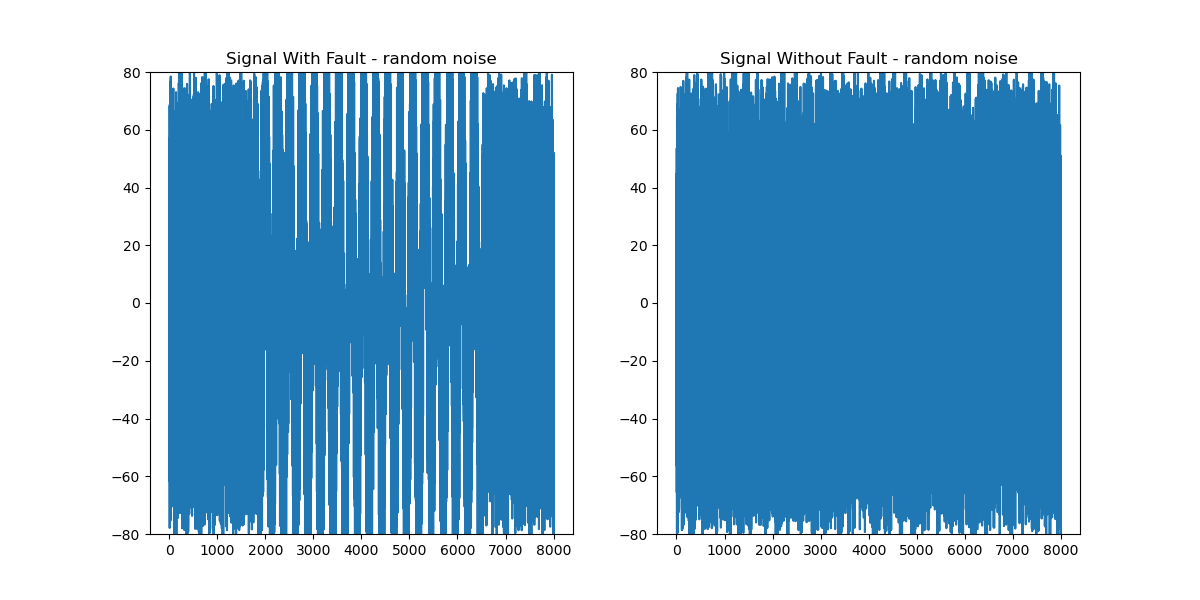
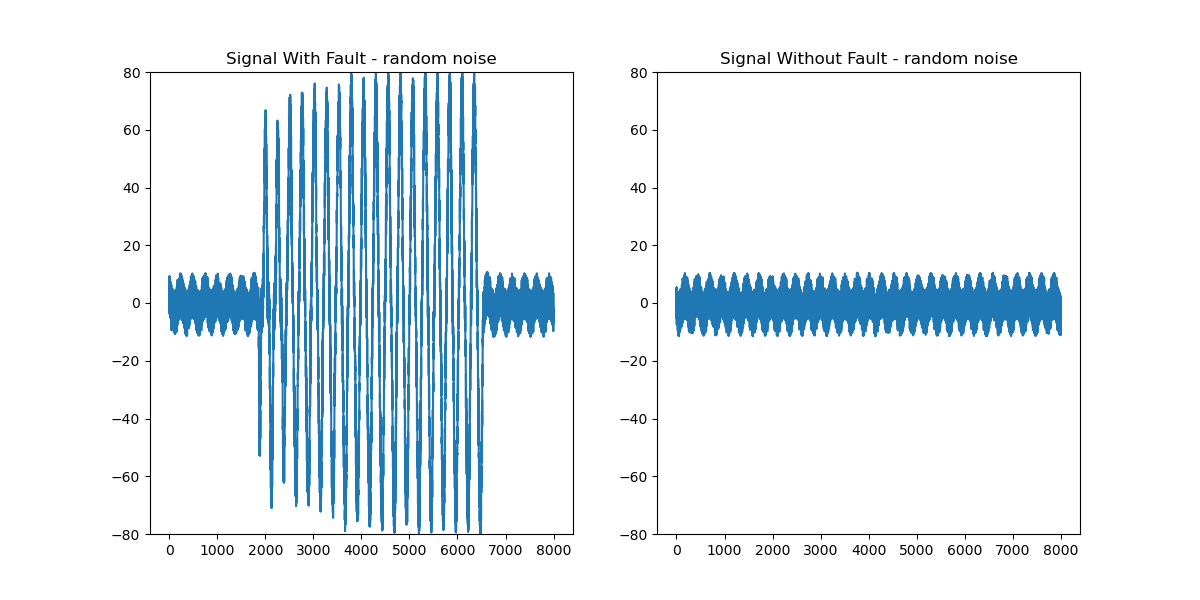
FEAT: random noise at 10%

diff --git a/generate_escalogram.py b/generate_escalogram.py
@@ -84,7 +84,7 @@ def generate_images(sample_fault, sample_control):
 
     # random_noise
     print('random_noise')
-    random_noise = np.random.randint(-80, 80, 8000)
+    random_noise = np.random.randint(-8, 8, 8000)
     sample_f = sample_fault+random_noise
     sample_c = sample_control+random_noise
     generate_image(sample_f, './results/yes/random_noise')
